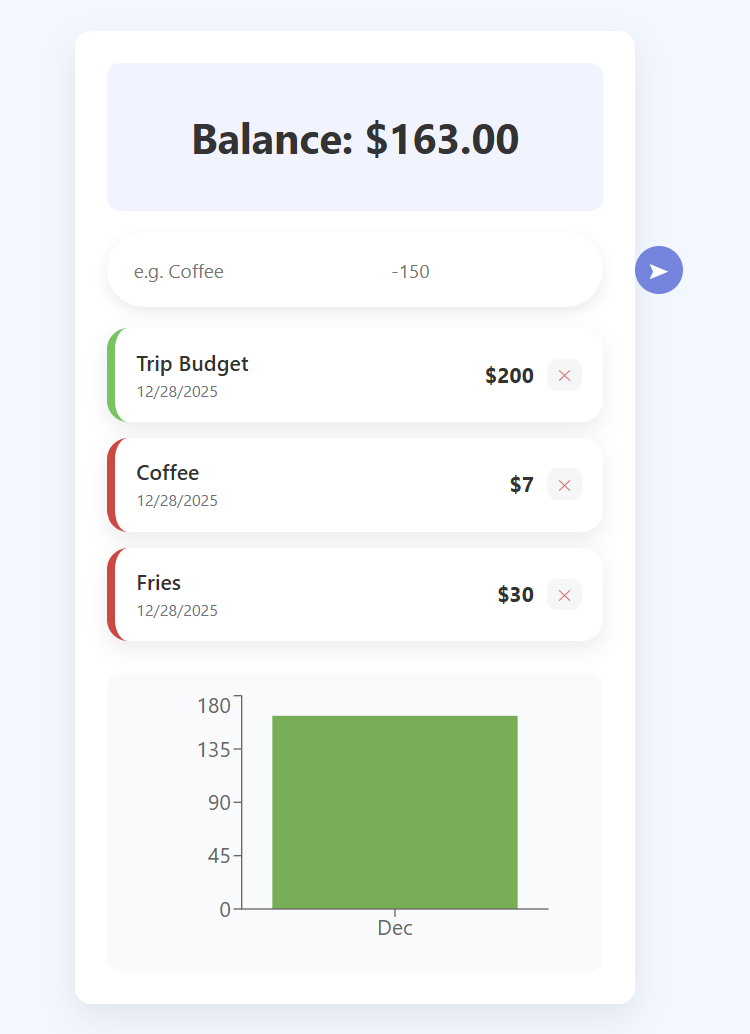
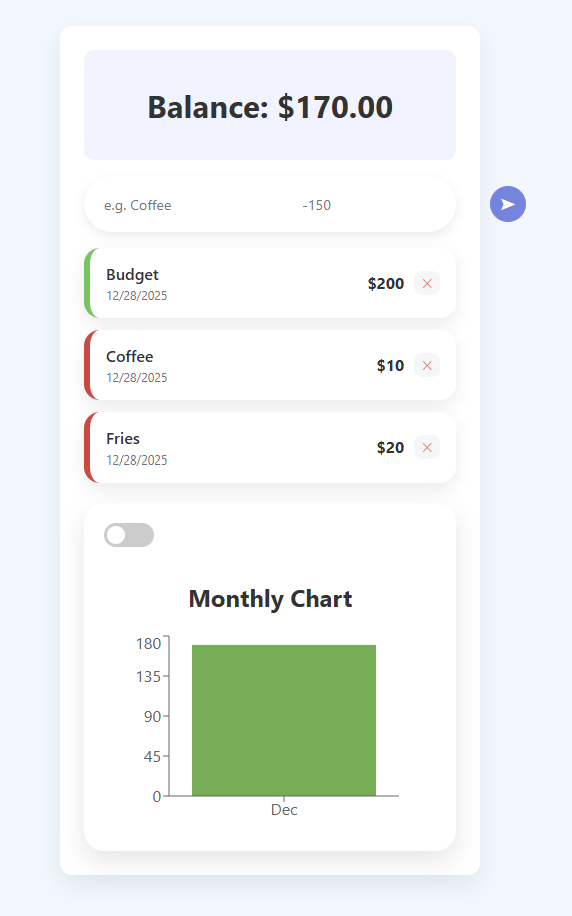
Added Expense Chart

diff --git a/src/App.jsx b/src/App.jsx
@@ -3,27 +3,15 @@ import "./App.css";
 import Balance from './components/Balance';
 import TransactionForm from './components/TransactionForm';
 import TransactionList from './components/TransactionList';
-import ExpenseChart from './components/ExpenseChart';
+import Chart from './components/Chart';
+//import ExpenseChart from './components/ExpenseChart';
 function App() {
   const [transactions, setTransactions] = useState([]);
 
   const addTransaction = (transaction) => {
     setTransactions([...transactions, transaction]);
   };
-  const getMonthlyBreakdown = (transactions) => {
-  return transactions.reduce((acc, item) => {
-    const month = new Date(item.id).toLocaleString("default", {
-      month: "short",
-    });
 
-    acc[month] = (acc[month] || 0) + item.amount;
-    return acc;
-  }, {});
-};
-  const monthlyBreakdown = getMonthlyBreakdown(transactions);
-    const chartData = Object.entries(monthlyBreakdown).map(
-      ([month, amount]) => ({ month, amount })
-    );
 
   const deleteTransaction = (id) => {
     setTransactions(transactions.filter(t => t.id !== id));
@@ -42,7 +30,9 @@ function App() {
         transactions={transactions}
         deleteTransaction={deleteTransaction}
       />
-      {chartData.length>0?<ExpenseChart data={chartData} />:<></>}
+      <Chart transactions={transactions}/>
+      {//chartData.length>0?<ExpenseChart data={chartData} />:<></>
+      }
       
       </div>
     </>

diff --git a/src/components/Chart.jsx b/src/components/Chart.jsx
@@ -1,0 +1,40 @@
+import { useState } from "react";
+import MonthlyChart from "./MonthlyChart";
+import IncomeVsExpenseChart from "./IncomeVsExpenseChart";
+export default function Charts({ transactions }) {
+  const [showIncomeVsExpense, setShowIncomeVsExpense] = useState(false);
+
+  // Totals
+  const totalIncome = transactions
+    .filter(t => t.amount > 0)
+    .reduce((acc, t) => acc + t.amount, 0);
+
+  const totalExpense = transactions
+    .filter(t => t.amount < 0)
+    .reduce((acc, t) => acc + Math.abs(t.amount), 0);
+
+  return (
+    <>
+    {transactions?.length>0?
+        <div className="charts-container">
+        {/* Toggle */}
+        <label className="switch">
+            <input
+            type="checkbox"
+            checked={showIncomeVsExpense}
+            onChange={() => setShowIncomeVsExpense(!showIncomeVsExpense)}
+            />
+            <span className="slider"></span>
+        </label>
+
+        {/* Charts */}
+        {showIncomeVsExpense ? (
+            <IncomeVsExpenseChart income={totalIncome} expense={totalExpense} />
+        ) : (
+            <MonthlyChart transactions={transactions} />
+        )}
+        </div>:<></>
+    }
+</>
+  );
+}

diff --git a/src/components/IncomeVsExpenseChart.jsx b/src/components/IncomeVsExpenseChart.jsx
@@ -1,0 +1,33 @@
+import React from "react";
+import { BarChart, Bar, XAxis, YAxis, Tooltip, ResponsiveContainer, Cell } from "recharts";
+
+export default function IncomeVsExpenseChart({ income, expense }) {
+  const data = [
+    { name: "Income", amount: income },
+    { name: "Expense", amount: expense },
+  ];
+
+  return (
+    <div className="chart-card">
+      {/* Heading */}
+      <h2 className="chart-title">Income - Expense Chart</h2>
+
+      {/* Chart */}
+      <ResponsiveContainer width="100%" height={250}>
+        <BarChart data={data} margin={{ top: 20, right: 20, left: 0, bottom: 20 }}>
+          <XAxis dataKey="name" />
+          <YAxis />
+          <Tooltip />
+          <Bar dataKey="amount">
+            {data.map((entry, index) => (
+              <Cell
+                key={`cell-${index}`}
+                fill={entry.name === "Income" ? "#22c55e" : "#ef4444"}
+              />
+            ))}
+          </Bar>
+        </BarChart>
+      </ResponsiveContainer>
+    </div>
+  );
+}

diff --git a/src/components/MonthlyChart.jsx b/src/components/MonthlyChart.jsx
@@ -1,0 +1,29 @@
+import { BarChart, Bar, XAxis, YAxis } from "recharts";
+
+function MonthlyChart({ transactions }) {
+      const getMonthlyBreakdown = (transactions) => {
+      return transactions.reduce((acc, item) => {
+        const month = new Date(item.id).toLocaleString("default", {
+          month: "short",
+        });
+    
+        acc[month] = (acc[month] || 0) + item.amount;
+        return acc;
+      }, {});
+    };
+      const monthlyBreakdown = getMonthlyBreakdown(transactions);
+        const chartData = Object.entries(monthlyBreakdown).map(
+          ([month, amount]) => ({ month, amount })
+        );
+  return (
+    <div className="chart-card">
+        <h2 className="chart-title">Monthly Chart</h2>
+    <BarChart width={300} height={200} data={chartData}>
+      <XAxis dataKey="month" />
+      <YAxis />
+      <Bar dataKey="amount" fill="#4CAF50" />
+    </BarChart>
+    </div>
+  );
+}
+export default MonthlyChart;

diff --git a/src/App.css b/src/App.css
@@ -375,4 +375,54 @@ body {
   background: #fee2e2;
   opacity: 1;
 }
+/* Toggle Switch */
+.switch {
+  position: relative;
+  display: inline-block;
+  width: 50px;
+  height: 24px;
+  margin-bottom: 16px;
+}
 
+.switch input {
+  opacity: 0;
+  width: 0;
+  height: 0;
+}
+
+.slider {
+  position: absolute;
+  cursor: pointer;
+  top: 0; left: 0; right: 0; bottom: 0;
+  background-color: #ccc;
+  transition: 0.4s;
+  border-radius: 34px;
+}
+
+.slider:before {
+  position: absolute;
+  content: "";
+  height: 18px;
+  width: 18px;
+  left: 3px;
+  bottom: 3px;
+  background-color: white;
+  transition: 0.4s;
+  border-radius: 50%;
+}
+
+input:checked + .slider {
+  background-color: #4f46e5;
+}
+
+input:checked + .slider:before {
+  transform: translateX(26px);
+}
+
+.charts-container {
+  background: #ffffff;
+  border-radius: 20px;
+  padding: 20px;
+  box-shadow: 0 10px 25px rgba(0,0,0,0.1);
+  margin-top: 20px;
+}

diff --git a/README.md b/README.md
@@ -38,7 +38,10 @@ npm install
 ```bash
 npm run dev
 ```
-Here is a screenshot of the app:
 
+# Expense Tracker App Screenshots
 ![App Screenshot1](images/Screenshot1.png)
-![App Screenshot2](images/Screenshot2.png)
+<p float="left">
+  <img src="images/Screenshot2.png" width="45%" />
+  <img src="images/Screenshot3.png" width="45%" />
+</p>
